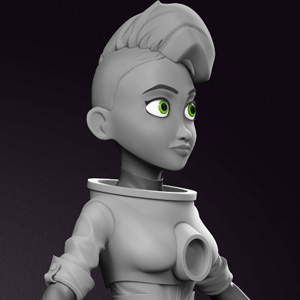
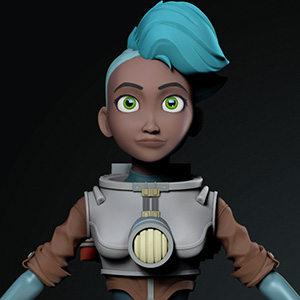
ajouts wireframes, wip rox

diff --git a/projects/tf2.html b/projects/tf2.html
@@ -42,19 +42,20 @@
 
 <div id="content">
 	<h2>Team Fortess 2 contributions</h2>
-	<p>I have been contributing to Team Fortress 2 for a few years. Below are some of my submissions that were accepted in the game.<br />Optimization is always a challenge since models are required to be under 1400 triangles (with a version under 700 triangles) which forces us to get creative even with the limitations.<br />
-	
-	<h2 style="margin-top:50px">The Automatic Pilot</h2>
-	<p>A plane pilot coat and hat inspired by the movie "Catch Me If You Can".<br />
-	[<a href="https://wiki.teamfortress.com/wiki/Automatic_Pilot">TF2 wiki page</a>]</p>
-	<div class="showcase_container"><img src="img/promo_pilot.jpg" width="1200px" class="showcase" /><br />
-	<div class="showcase_container"><img src="img/pilot_comparaison.png" width="1200px" class="showcase" />
+	<p>I have been contributing to Team Fortress 2 for a few years. Below are some of my submissions that were accepted in the game.<br />Optimization is always a challenge since models are required to be under 1400 triangles (with a version under 700 triangles) which forces us to get creative even with the limitations.<br /><br />
+	Programs used: 3dsmax, Photoshop, Source Engine
 	
 	<h2 style="margin-top:50px">The Extra Layer</h2>
-	<p>Another item that was accepted by Valve.<br />It's a padded vest for the Sniper meant to match his original color palette.<br />
+	<p>An item I made that was accepted by Valve.<br />It's a padded vest for the Sniper meant to match his original color palette.<br />
 	[<a href="https://wiki.teamfortress.com/wiki/Extra_Layer">TF2 wiki page</a>]</p>
 	<div class="showcase_container"><img src="img/layer_promo.png" width="1200px" class="showcase" /></div><br />
 	<div class="showcase_container"><img src="img/layer_comparaison.png" width="1200px" class="showcase" /></div>
+	
+	<h2 style="margin-top:50px">The Automatic Pilot</h2>
+	<p>A set of 2 items: a plane pilot coat and hat inspired by the movie "Catch Me If You Can".<br />
+	[<a href="https://wiki.teamfortress.com/wiki/Automatic_Pilot">TF2 wiki page</a>]</p>
+	<div class="showcase_container"><img src="img/promo_pilot.jpg" width="1200px" class="showcase" /><br />
+	<div class="showcase_container"><img src="img/pilot_comparaison.png" width="1200px" class="showcase" />
 	
 </div>
 

diff --git a/projects/ram.html b/projects/ram.html
@@ -43,11 +43,13 @@
 <div id="content">
 	<h2>The Battering Ram</h2>
 	<p>I made this model for the <a href="https://facepunch.com/showthread.php?t=1485244&p=48664551">Arms Race 2 mod contest</a> for Team Fortress 2. It is meant to work as a shield the character uses to charge through enemies. <br />
-	It features hand-painted textures and low-poly modeling.<br />The first two pictures were rendered in Source Film Maker then edited in Photoshop, and the last picture shows how the model looks in real-time in the Source engine.</p>
-	<div class="showcase_container"><img src="img/ram_promo.jpg" width="1200px" class="showcase" /></div><br />
+	It features hand-painted textures and low-poly modeling.<br /><br />
+	Programs used: Zbrush, 3dsmax, Photoshop, Source Engine</p>
 	<div class="showcase_container"><img src="img/ram_ingame.jpg" width="1200px" class="showcase" /></div><br />
 	<div class="showcase_container"><img src="img/ram_maps.png" width="1200px" class="showcase" /></div><br />
+	<div class="showcase_container"><img src="img/ram_mesh.png" width="1200px" class="showcase" /></div><br />
 	<div class="showcase_container"><img src="img/ram_promo2.jpg" width="1200px" class="showcase" /></div>
+	<p>The last picture was rendered in Source Film Maker then edited in Photoshop, and shows how the model looks in context with Valve's characters.</p>
 </div>
 
 </body>

diff --git a/projects/blood.html b/projects/blood.html
@@ -42,10 +42,13 @@
 
 <div id="content">
 	<h2>Blood</h2>
-	<p>School project at NAD where we had to remake/reboot an old PC game in 7 weeks. Our team picked Blood. I was in charge of the 2 characters and their skinning.<br />
-	We went for an art style focusing on chaos, contrasts and silhouettes. </p>
+	<p>School project at NAD where we had to remake/reboot an old PC game in 7 weeks. Our team picked Blood. We went for an art style focusing on chaos, contrasts and silhouettes. <br />
+	I was in charge of the 2 characters and their skinning. Both characters use cloth physics.<br /><br />
+	Caleb design by Gabriel Kelly. Cultist design by Philippe René.
+	<br />
+	Programs used: 3dsmax, Zbrush, xNormal, Substance Painter, Photoshop, Unreal 4 Engine</p>
 	<div class="showcase_container"><img src="img/promo_caleb.png" width="1200px" class="showcase" /></div><br />
-	<div class="showcase_container"><img src="img/caleb_turnaround.png" width="1200px" class="showcase" /></div><br />
+	<div class="showcase_container"><img src="img/caleb_mesh.png" width="1200px" class="showcase" /></div><br />
 	<div class="showcase_container"><img src="img/promo_cultiste.png" width="1200px" class="showcase" /></div><br />
 	<div class="showcase_container"><img src="img/cultiste_turnaround.png" width="1200px" class="showcase" /></div>
 </div>

diff --git a/projects/rox.html b/projects/rox.html
@@ -42,8 +42,11 @@
 
 <div id="content">
 	<h2>Rox Willful</h2>
-	<p>A character I'm working on for my thesis project at NAD. She is the main protagonist of a comedic point & click game set in space.</p>
-	<div class="showcase_container"><img src="img/rox_render.png" width="1200px" class="showcase" /></div>
+	<p>A character I'm working on for my thesis project at NAD. She is the main protagonist of a comedic point & click game set in space.<br /><br />
+	Character design by Gabriel Kelly.<br />
+	Programs used: Zbrush, 3dsmax, Substance Painter</p>
+	<div class="showcase_container"><img src="img/rox_render2.png" width="1200px" class="showcase" /></div><br />
+	<div class="showcase_container"><img src="img/rox_mesh.png" width="1200px" class="showcase" /></div>
 </div>
 
 </body>
